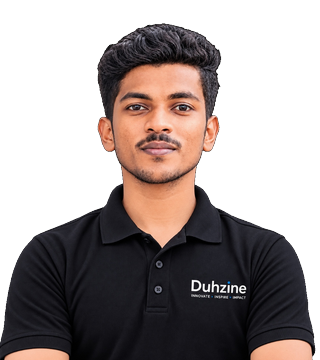
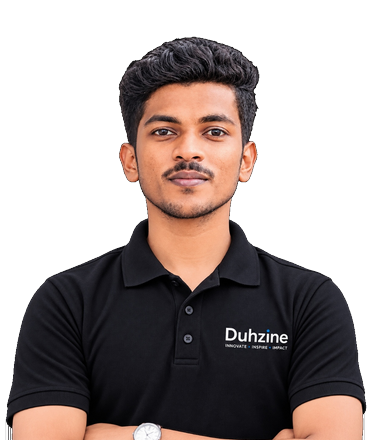
Update Ajith and Gopinath portraits, expand team cards with big professional images, and link Danny Enterprises & BK Packers and Movers

diff --git a/src/components/about/AboutTeam.tsx b/src/components/about/AboutTeam.tsx
@@ -28,12 +28,12 @@ export default function AboutTeam() {
     {
       name: "Ajith P",
       role: "Sr HR Recruiter",
-      image: "/images/about/team_member_2.png",
+      image: "/images/about/ajith_p.png",
     },
     {
       name: "Gopinath",
       role: "Digital Marketing & Admin",
-      image: "/images/about/team_member_1.png",
+      image: "/images/about/gopinath.png",
     },
   ];
 
@@ -63,29 +63,33 @@ export default function AboutTeam() {
             {team.map((member, index) => (
               <div
                 key={index}
-                className="stagger-item interactive-card bg-white rounded-[32px] p-8 shadow-lg flex flex-col items-center justify-center text-center transition-all duration-300 hover:-translate-y-2 hover:shadow-2xl group cursor-pointer"
+                className="stagger-item interactive-card bg-white rounded-[32px] p-6 sm:p-7 shadow-lg flex flex-col items-center justify-between text-center transition-all duration-300 hover:-translate-y-2 hover:shadow-2xl group cursor-pointer"
               >
-                {/* Blue Container with Avatar */}
-                <div className="w-28 h-32 bg-blue-600 rounded-[28px] relative flex items-end justify-center overflow-hidden mb-6 shadow-inner group-hover:scale-105 transition-transform duration-300">
+                {/* Large Professional Avatar Container (Big person image instead of small blue box) */}
+                <div className="w-full max-w-[240px] h-[250px] sm:h-[270px] rounded-2xl sm:rounded-3xl bg-slate-50/80 border border-slate-100/70 relative flex items-end justify-center overflow-hidden mb-5 group-hover:scale-[1.02] transition-transform duration-300">
                   <Image
                     src={member.image}
                     alt={member.name}
-                    width={160}
-                    height={180}
+                    width={380}
+                    height={440}
                     unoptimized
-                    className="w-full h-full object-contain object-bottom"
+                    className="w-full h-full object-contain object-bottom transition-transform duration-300 group-hover:scale-105"
+                    priority={index < 3}
                   />
                 </div>
 
-                {/* Name */}
-                <h3 className="text-lg sm:text-xl font-bold text-gray-900 leading-tight">
-                  {member.name}
-                </h3>
+                {/* Member Info */}
+                <div className="flex flex-col items-center">
+                  {/* Name */}
+                  <h3 className="text-lg sm:text-xl font-bold text-gray-900 leading-tight group-hover:text-blue-600 transition-colors">
+                    {member.name}
+                  </h3>
 
-                {/* Role */}
-                <p className="text-sm font-semibold text-gray-600 mt-1.5 leading-snug">
-                  {member.role}
-                </p>
+                  {/* Role */}
+                  <p className="text-sm font-semibold text-gray-600 mt-1.5 leading-snug">
+                    {member.role}
+                  </p>
+                </div>
               </div>
             ))}
           </div>

diff --git a/src/components/services/ServicesRecentWorks.tsx b/src/components/services/ServicesRecentWorks.tsx
@@ -18,6 +18,7 @@ export default function ServicesRecentWorks({
       title: "Delivering Sustainable Cocopeat Solutions for Global Agriculture",
       description:
         "A professional business website designed to showcase premium cocopeat products, strengthen brand credibility, highlight product offerings, and connect agricultural businesses with global markets",
+      link: "https://dannyenterprises.co.in",
     },
     {
       image: "/images/services/work_2.jpg",
@@ -25,6 +26,7 @@ export default function ServicesRecentWorks({
       title: "Moving Your Belongings Safely, Smoothly, and Stress-Free.",
       description:
         "A responsive website designed to showcase professional packing and moving services, build customer trust, highlight service offerings, and simplify relocation enquiries through clear navigation and engaging visuals",
+      link: "https://bkpackersandmovers.in",
     },
     {
       image: "/images/services/work_3.jpg",

diff --git a/src/components/portfolio/PortfolioProjects.tsx b/src/components/portfolio/PortfolioProjects.tsx
@@ -42,6 +42,7 @@ export default function PortfolioProjects({
       title: "Delivering Sustainable Cocopeat Solutions for Global Agriculture",
       description:
         "A professional business website designed to showcase premium cocopeat products, strengthen brand credibility, highlight product offerings, and connect agricultural businesses with global markets",
+      link: "https://dannyenterprises.co.in",
     },
     {
       image: "/images/portfolio/work_5.jpg",
@@ -49,6 +50,7 @@ export default function PortfolioProjects({
       title: "Moving Your Belongings Safely, Smoothly, and Stress-Free.",
       description:
         "A responsive website designed to showcase professional packing and moving services, build customer trust, highlight service offerings, and simplify relocation enquiries through clear navigation and engaging visuals",
+      link: "https://bkpackersandmovers.in",
     },
     {
       image: "/images/portfolio/work_6.jpg",

diff --git a/src/components/PortfolioSection.tsx b/src/components/PortfolioSection.tsx
@@ -40,6 +40,7 @@ const projects: Project[] = [
     imageAlt: "Danny Enterprises Agri-Tech responsive website presentation",
     imageClassName: "w-[460px] lg:w-[500px] xl:w-[540px] max-w-full h-auto object-contain rounded-2xl drop-shadow-sm",
     imagePosition: "left",
+    link: "https://dannyenterprises.co.in",
   },
   {
     category: "Quriouslilmindz - Preschool",
